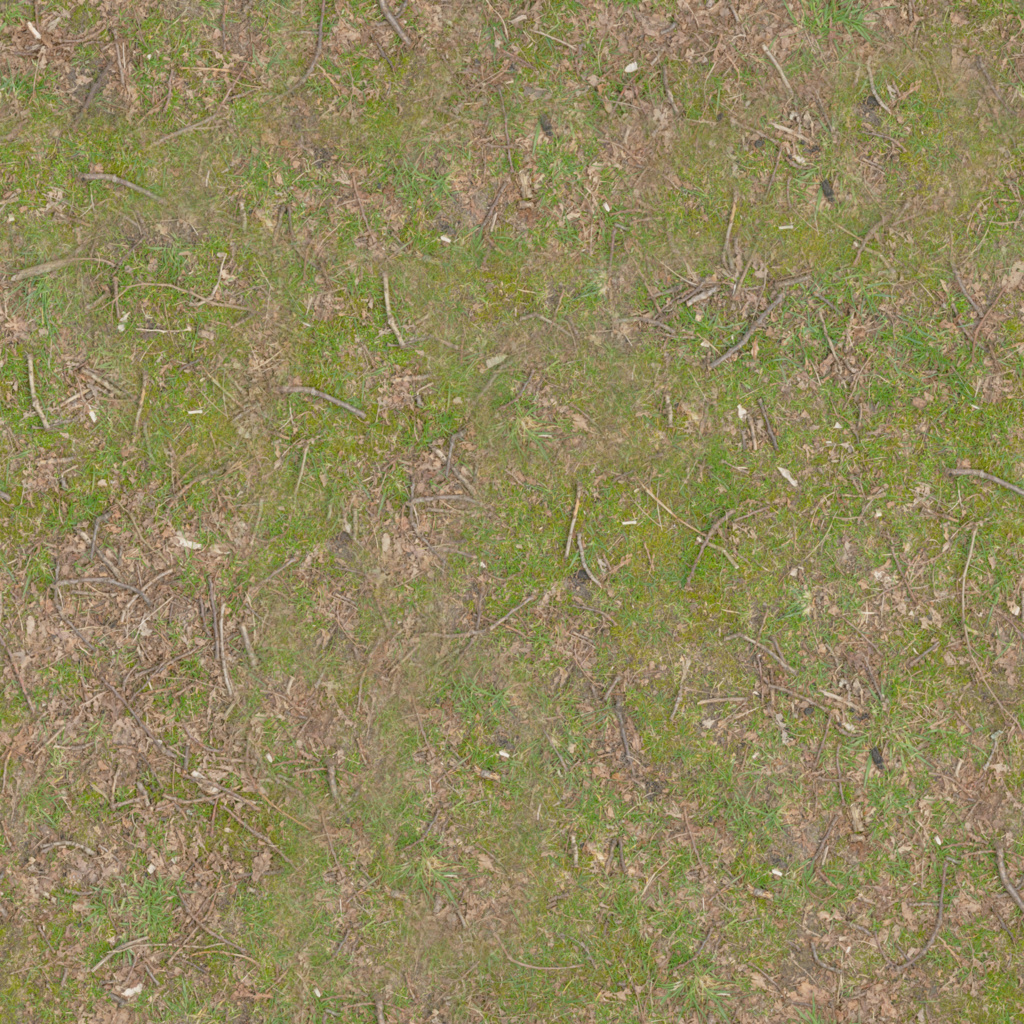
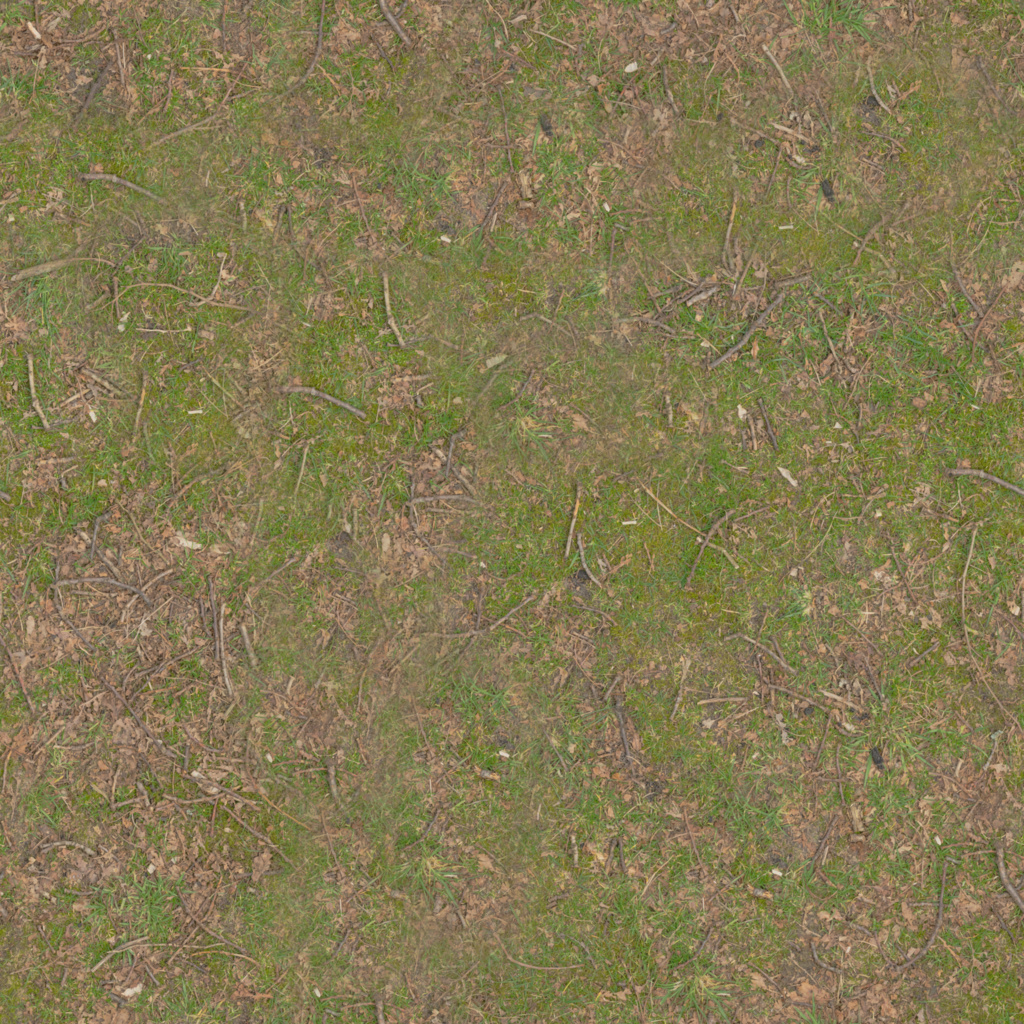
improved look of environment

diff --git a/source/main.cpp b/source/main.cpp
@@ -858,6 +858,7 @@ int main(int argc, char** argv) {
         uniform bool  uUseGroundMask;    // ground: ON, tree: OFF
         uniform float uGroundRadius;     // world units
         uniform float uGroundFade;       // world units
+        uniform float uGroundCutoff;     // 0 = disabled, >0 = discard alpha below cutoff (for depth prepass)   
         
         out vec4 FragColor;
 
@@ -959,9 +960,13 @@ int main(int argc, char** argv) {
                 float d = length(vWorldPos.xz); // center at origin
                 alpha = 1.0 - smoothstep(uGroundRadius, uGroundRadius + uGroundFade, d);
                 alpha = clamp(alpha, 0.0, 1.0);
-                col *= alpha; // makes edge blend cleaner
+            
+                // Depth prepass uses this to keep only the opaque center
+                if (uGroundCutoff > 0.0 && alpha < uGroundCutoff)
+                    discard;
             }
-        
+            
+            // STRAIGHT alpha output (no premultiply) for standard blending
             FragColor = vec4(col, alpha);
         }
     )GLSL";
@@ -997,8 +1002,8 @@ int main(int argc, char** argv) {
     glUniform1i(uRoughTexLoc, 2);
 
     // ---------------------------
-// Sky background (HDRI) (Part 1)
-// ---------------------------
+    // Sky background (HDRI) (Part 1)
+    // ---------------------------
     GLuint skyProg = 0;
     GLuint skyVAO = 0;
 
@@ -1163,24 +1168,20 @@ int main(int argc, char** argv) {
         }
 
         // ---------------------------
-        // Draw hill (Part 2)
+        // Draw hill (Part 2): two-pass
+        //   Pass A: depth-only cutout (clips tree)
+        //   Pass B: blended color (soft edge), no depth writes
         // ---------------------------
         if (envMode && hillVAO && hillVertCount > 0) {
-
-            glEnable(GL_BLEND);
-            glBlendFunc(GL_SRC_ALPHA, GL_ONE_MINUS_SRC_ALPHA);
-
-            glDisable(GL_DEPTH_TEST); // hill is background; tree draws after it
 
             glUseProgram(prog);
 
             // Rotate hill with tree so environment matches
             glm::mat4 hillModel = model;
-
             glUniformMatrix4fv(uModelLoc, 1, GL_FALSE, &hillModel[0][0]);
             glUniformMatrix4fv(uViewProjLoc, 1, GL_FALSE, &viewProj[0][0]);
 
-            // Bind ground textures (assumes these exist + were loaded earlier in main.cpp)
+            // Bind ground textures
             glActiveTexture(GL_TEXTURE0); glBindTexture(GL_TEXTURE_2D, texGroundAlbedo);
             glActiveTexture(GL_TEXTURE1); glBindTexture(GL_TEXTURE_2D, texGroundNormal);
             glActiveTexture(GL_TEXTURE2); glBindTexture(GL_TEXTURE_2D, texGroundRough);
@@ -1194,27 +1195,54 @@ int main(int argc, char** argv) {
             glUniform1f(uSpecStrLoc, 0.12f);
             glUniform1i(uFlipNormalYLoc, 0);
 
-            // Use your existing shader params but make them subtle for ground
+            // Subtle ground noise
             glUniform1f(glGetUniformLocation(prog, "uMacroFreq"), 0.03f);
             glUniform1f(glGetUniformLocation(prog, "uMacroStrength"), 0.18f);
             glUniform1f(glGetUniformLocation(prog, "uUVWarp"), 0.02f);
             glUniform1f(glGetUniformLocation(prog, "uBarkTwist"), 0.0f);
 
-            // Circular mask to hide square edges
-            glUniform1i(glGetUniformLocation(prog, "uUseGroundMask"), 1);
-            glUniform1f(glGetUniformLocation(prog, "uGroundRadius"), 14.0f);
-            glUniform1f(glGetUniformLocation(prog, "uGroundFade"), 6.0f);
+            // Circular mask params (shared by both passes)
+            GLint locUseGroundMask = glGetUniformLocation(prog, "uUseGroundMask");
+            GLint locGroundRadius = glGetUniformLocation(prog, "uGroundRadius");
+            GLint locGroundFade = glGetUniformLocation(prog, "uGroundFade");
+            GLint locGroundCutoff = glGetUniformLocation(prog, "uGroundCutoff");
 
-            // Anti-tiling blend (ground only)
+            glUniform1i(locUseGroundMask, 1);
+            glUniform1f(locGroundRadius, 14.0f);
+            glUniform1f(locGroundFade, 6.0f);
+
+            // Anti-tiling (ground only)
             glUniform1i(glGetUniformLocation(prog, "uUseAltTiling"), 1);
             glUniform1f(glGetUniformLocation(prog, "uAltTilingMix"), 0.75f);
 
             glBindVertexArray(hillVAO);
-            glDrawArrays(GL_TRIANGLES, 0, hillVertCount);
-            glBindVertexArray(0);
 
-            glEnable(GL_DEPTH_TEST);
+            // ---- Pass A: depth-only prepass (alpha cutout) ----
             glDisable(GL_BLEND);
+            glColorMask(GL_FALSE, GL_FALSE, GL_FALSE, GL_FALSE);
+            glDepthMask(GL_TRUE);
+            glEnable(GL_DEPTH_TEST);
+            glDepthFunc(GL_LESS);
+
+            glUniform1f(locGroundCutoff, 0.99f); // keep only opaque center in depth
+            glDrawArrays(GL_TRIANGLES, 0, hillVertCount);
+
+            // ---- Pass B: color pass (blended fade), no depth writes ----
+            glColorMask(GL_TRUE, GL_TRUE, GL_TRUE, GL_TRUE);
+            glDepthMask(GL_FALSE);
+            glEnable(GL_BLEND);
+            glBlendFunc(GL_SRC_ALPHA, GL_ONE_MINUS_SRC_ALPHA);
+            glDepthFunc(GL_LEQUAL); // allow drawing exactly on prepass depth
+
+            glUniform1f(locGroundCutoff, 0.0f); // disable discard; draw full fade
+            glDrawArrays(GL_TRIANGLES, 0, hillVertCount);
+
+            // Restore defaults for the tree
+            glDepthFunc(GL_LESS);
+            glDepthMask(GL_TRUE);
+            glDisable(GL_BLEND);
+
+            glBindVertexArray(0);
         }
 
         glUseProgram(prog);
